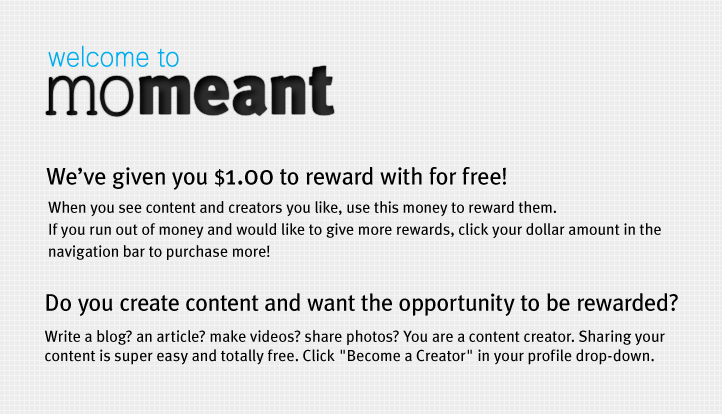
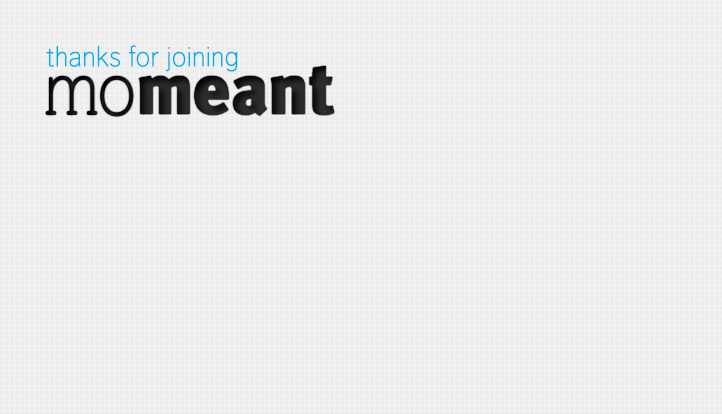
Tweaked the after-signup modal.

diff --git a/public/stylesheets/styles.css b/public/stylesheets/styles.css
@@ -6800,17 +6800,18 @@ ul.stories .excerpt {
     width: 103px;
     height: 103px;
     position: absolute;
-    top: -3px;
-    left: -3px;
+    top: 7px;
+    left: 7px;
     background: transparent url(../images/hiThereBanner.png) no-repeat 0 0; }
-  #about-diagram-modal .padder span {
-    position: absolute;
-    bottom: 17px;
-    right: 17px;
-    color: #777777;
-    width: 130px;
-    font-size: 11px;
-    text-align: right; }
+  #about-diagram-modal .padder .insides {
+    background: transparent url(../images/aboutModalDiagram.png) no-repeat 0 0;
+    height: 281px;
+    color: #252525;
+    padding: 160px 46px 0; }
+  #about-diagram-modal .padder h3 {
+    font-size: 1.5em; }
+  #about-diagram-modal .padder p {
+    margin: 0.75em 0 2em; }
 
 body#dashboard #container {
   position: relative; }

diff --git a/public/stylesheets/sass/modals.sass b/public/stylesheets/sass/modals.sass
@@ -274,14 +274,15 @@
       width: 103px
       height: 103px
       position: absolute
-      top: -3px
-      left: -3px
+      top: 7px
+      left: 7px
       background: transparent url(../images/hiThereBanner.png) no-repeat 0 0
-    span
-      position: absolute
-      bottom: 17px
-      right: 17px
-      color: #777
-      width: 130px
-      font-size: 11px
-      text-align: right
+    .insides
+      background: transparent url(../images/aboutModalDiagram.png) no-repeat 0 0
+      height: 281px
+      color: $text_color
+      padding: 160px 46px 0
+    h3
+      font-size: 1.5em
+    p
+      margin: 0.75em 0 2em
